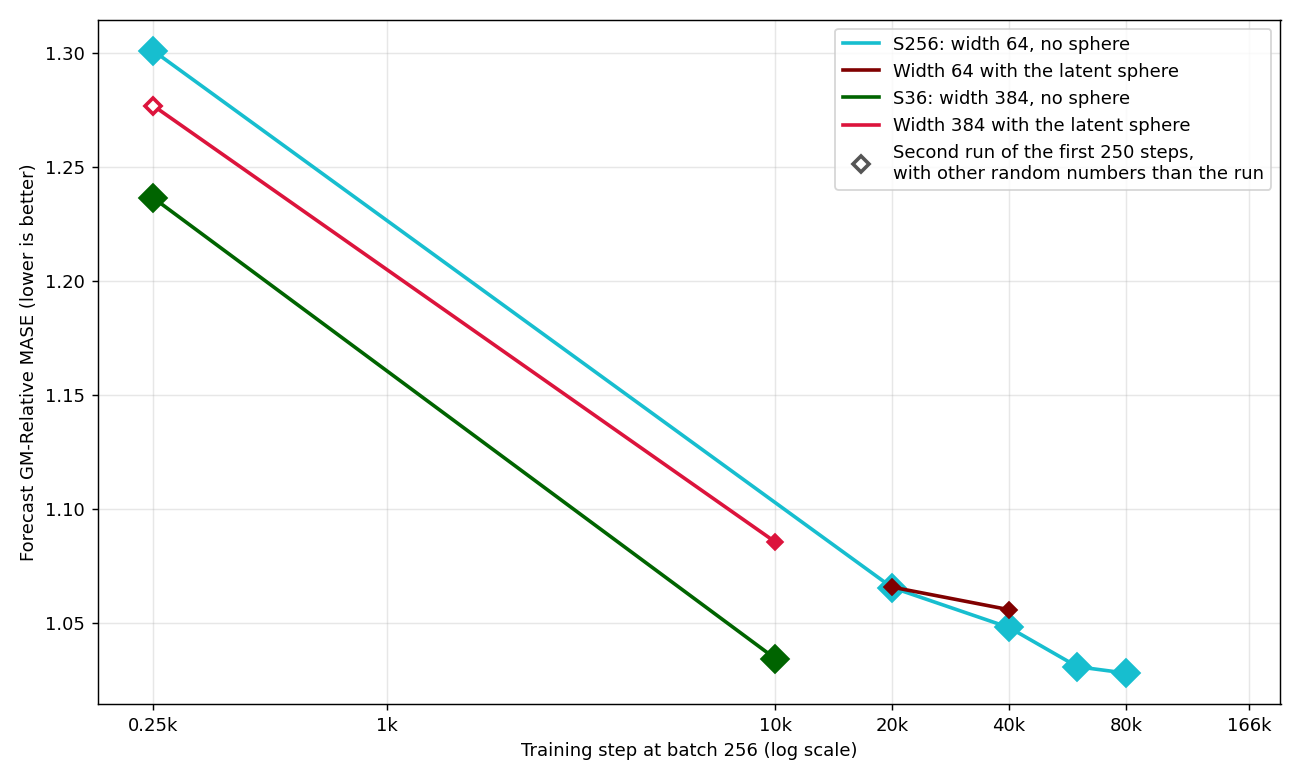
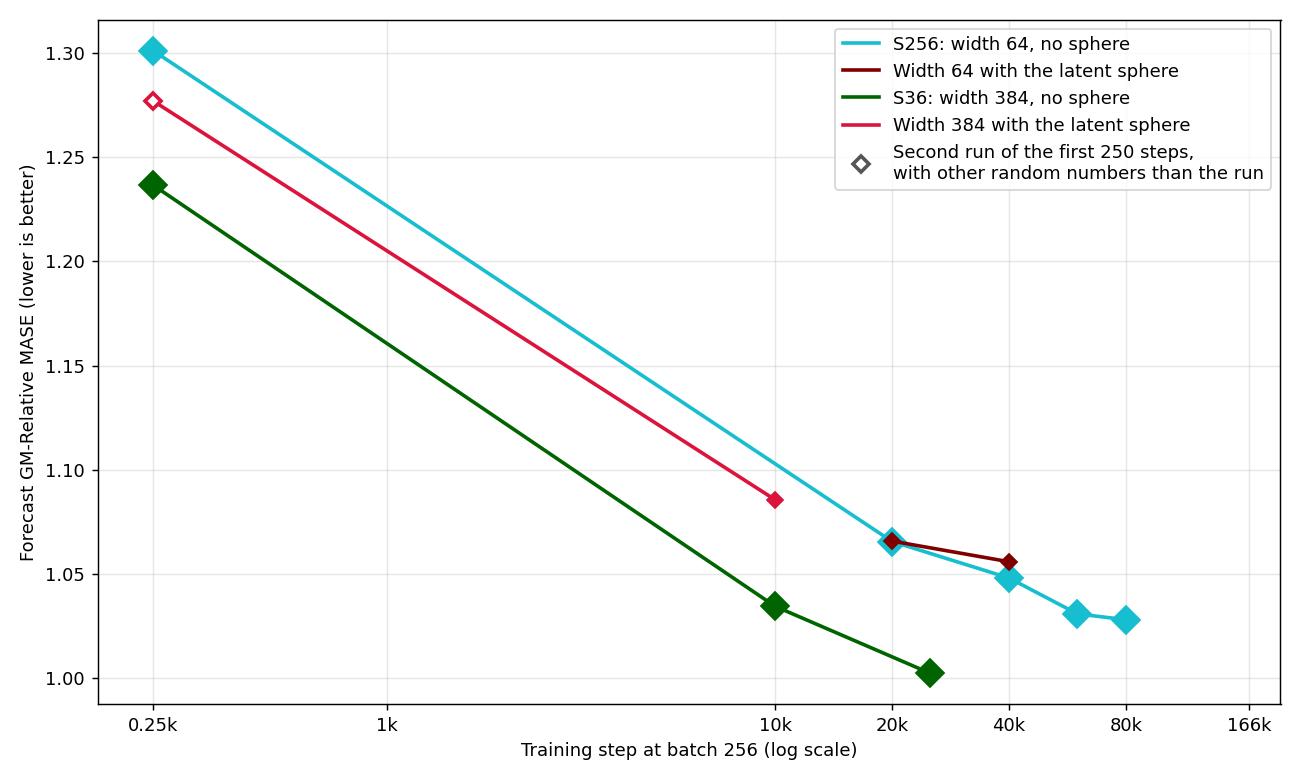
freq_family report: S36 at 25k, 1.0025 (MPE 0.9841)

diff --git a/reports/2026-10-10_frequency_family_head/frequency_family_head.md b/reports/2026-10-10_frequency_family_head/frequency_family_head.md
@@ -28,8 +28,9 @@ The forecast panel also shows one run of the 40k grid at the data it saw, S256: 
 The heatmap compares it with the other runs of the grid.
 With the SIGReg target at a latent norm of about √64 = 8, S256 gets 1.3010 after 250 steps of batch 256 (1k on the axis), 1.0656 at 20k, 1.0481 at 40k steps of batch 256 (160k on the axis), 1.0309 at 60k (240k on the axis) and 1.0281 at 80k (320k on the axis).
 S36 is S256 at width 384 with muP: 3 encoder and 6 forecaster layers, the SIGReg target at a latent norm of about √384 = 19.6, and 166k steps of batch 256 with the EMA ramp over the 166k steps.
-It gets 1.2365 after 250 steps (1k on the axis) and 1.0345 at 10k (40k on the axis).
+It gets 1.2365 after 250 steps (1k on the axis), 1.0345 at 10k (40k on the axis) and 1.0025 at 25k (100k on the axis).
 At 10k, its short, medium and long scores are 0.9384, 1.1893 and 1.1616, and MPE gets 1.0247.
+At 25k, its short, medium and long scores are 0.9008, 1.1639 and 1.1429, and MPE gets 0.9841.
 SPH36 is S36 with the latent sphere, scored with the head path of #454: 1.2769 after 250 steps and 1.0856 at 10k.
 An open marker shows its point after 250 steps: it comes from a second run with other random numbers than the run.
 S24 is S36 with 2 encoder and 4 forecaster layers.
@@ -129,7 +130,7 @@ The heatmap row gives the 40k score of the fixed head path.
 
 The figure compares the runs with the latent sphere and the same runs without it, at batch 256, with the scores of the fixed head path only: width 64 to 80k steps, and width 384 (S36) to 166k steps.
 The sphere run of width 384 gets 1.2769 after 250 steps and 1.0856 at 10k (short 0.9513, medium 1.2997, long 1.2817).
-S36 gets 1.2365 and 1.0345 (short 0.9384, medium 1.1893, long 1.1616).
+S36 gets 1.2365 and 1.0345 (short 0.9384, medium 1.1893, long 1.1616), then 1.0025 at 25k.
 At 10k, the sphere run is 0.0511 higher, mostly on the medium and long horizons.
 This point of the sphere run comes from a second run of its first 250 steps on elisa, with torch 2.8.0.
 The run trained on the box with torch 2.9.1, and the losses already differ at step 1 (55.33 and 55.42), so an open marker shows the point.
